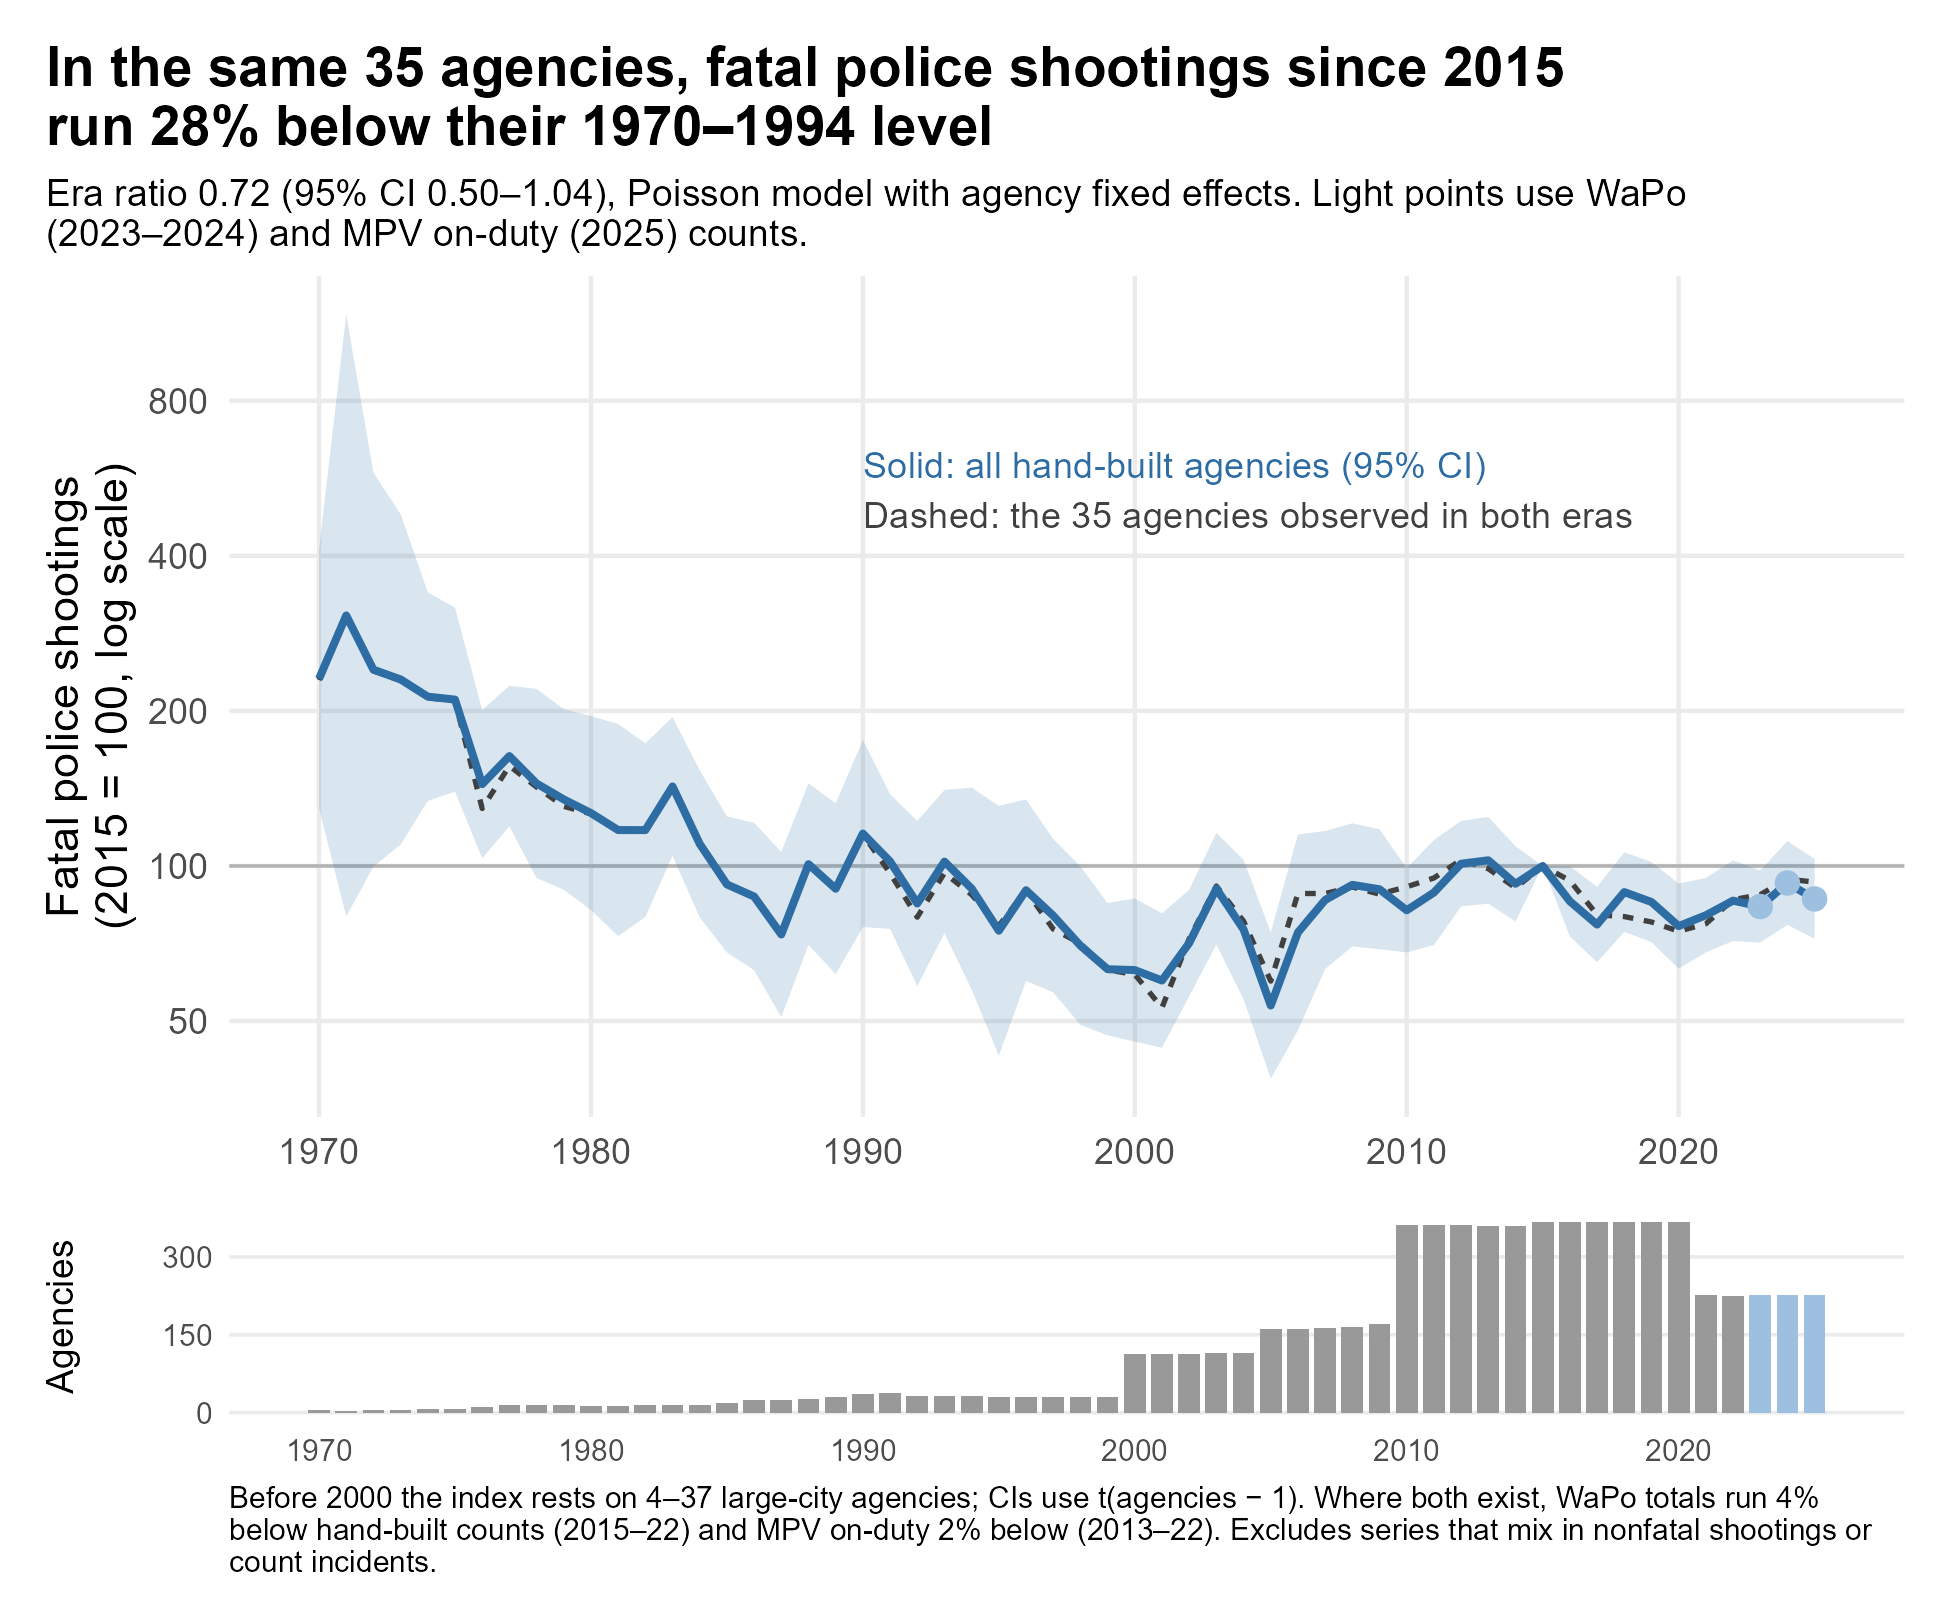
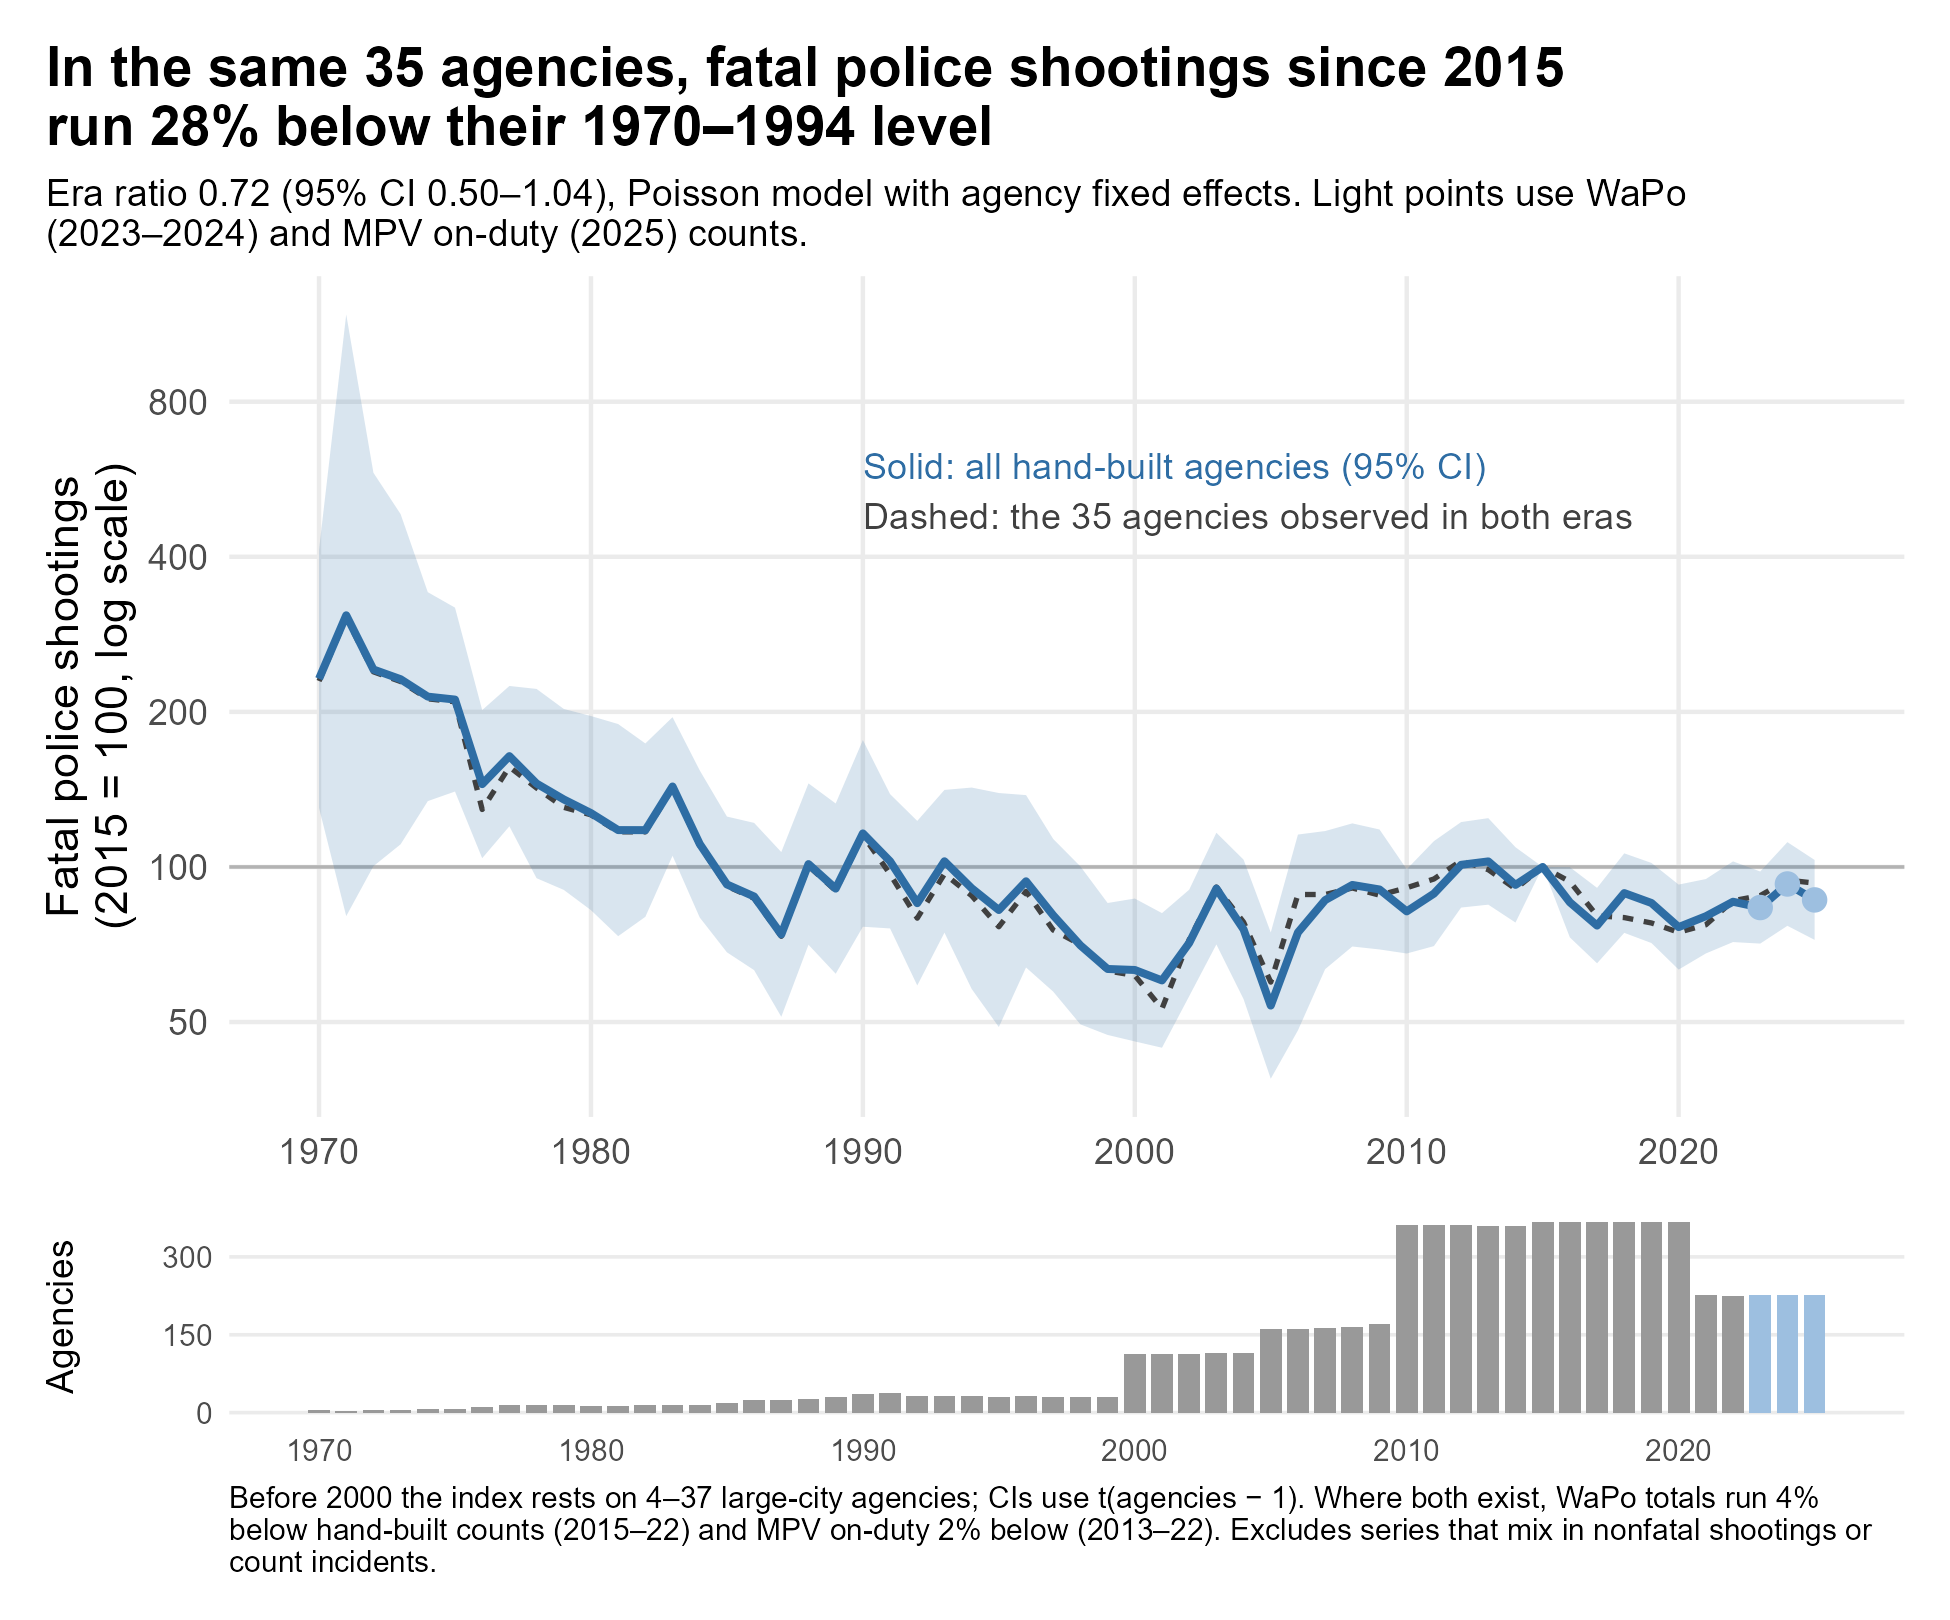
Add Baltimore PD 1995-96 to n_nix (Baltimore Sun annual counts) (#36)
1995 = 12 and 1996 = 9, both counts the Sun printed (SHR 13 and 8).
Case-by-case years are left out: the same search channels recovered
only about half of 1995's stated deaths, so 1990-94 floors would be
far too low. Baltimore stays out of the long panel; headline
unchanged (35 agencies, 0.72).

diff --git a/README.md b/README.md
@@ -132,7 +132,7 @@ I decided, for now at least, to focus on fatal shootings, since they're more rel
 | [Springfield (MO) PD](https://www.springfieldmo.gov/3755/Officer-Involved-Shootings) | 2008–2022 | Springfield (MO) PD |
 | [Austin open data portal](https://data.austintexas.gov/Public-Safety/Officer-Involved-Shooting-2000-2014/63p6-iegi) | 2008–2014 (2000–07 replaced by the Statesman reconstruction) | Austin PD |
 | [Dallas open data portal](https://www.dallasopendata.com/Public-Safety/Dallas-Police-Officer-Involved-Shootings/4gmt-jyx2) | 2003–2022 | Dallas PD |
-| Local newspapers via NewsBank: see [Newspaper reconstructions](#newspaper-reconstructions) below | 1981–2009 | Omaha, Lincoln, Oklahoma City, Columbus, Denver, Tulsa, San Antonio, Sacramento PD, Sacramento Co. SD, Portland (OR), Austin, Harris Co. SO, Charlotte, Fresno, San Jose, Dallas, San Diego, Kansas City (MO), Chicago, LAPD (1993–94), Milwaukee, San Francisco, Colorado Springs, Orlando, Anchorage |
+| Local newspapers via NewsBank: see [Newspaper reconstructions](#newspaper-reconstructions) below | 1981–2009 | Omaha, Lincoln, Oklahoma City, Columbus, Denver, Tulsa, San Antonio, Sacramento PD, Sacramento Co. SD, Portland (OR), Austin, Harris Co. SO, Charlotte, Fresno, San Jose, Dallas, San Diego, Kansas City (MO), Chicago, LAPD (1993–94), Milwaukee, San Francisco, Colorado Springs, Orlando, Anchorage, Baltimore (1995–96) |
 | Jacksonville Sheriff's Office, [*Police Involved Shootings*](https://web.archive.org/web/20150717050006/http://www.jaxsheriff.org/departments/sheriffs-office/docs/sheriff-john-rutherford/police-involved-shootings-final.aspx) (Jan. 2009; archived copy) | 2007–2008 | Jacksonville SO |
 | [Cincinnati open data portal](https://data.cincinnati-oh.gov/Safety/PDI-Police-Data-Initiative-Officer-Involved-Shooti/r6q4-muts) | 1996–2019 | Cincinnati PD |
 | [Vermont open data portal](https://data.vermont.gov/Public-Safety/Vermont-State-Police-Officer-Involved-Shootings-19/du86-kfnp) | 1977–2022 | Vermont State Police |
@@ -181,6 +181,7 @@ The method, a note on every agency, and the checks against each paper's own coun
 | Colorado Springs PD | *The Gazette* (Colorado Springs) | 1988–1999 | 4 | 2 |
 | Orlando PD | *Orlando Sentinel* | 1986–1999 | 6 | 1 |
 | Anchorage PD | *Anchorage Daily News* | 1986–1999 | 4 | 5 |
+| Baltimore PD | *The Sun* (Baltimore) | 1995–1996 | 21 | 21 |
 
 
 ## Caveats

diff --git a/data/historical/README.md b/data/historical/README.md
@@ -41,3 +41,4 @@ The SHR column is the FBI's count of people killed by the agency's officers with
 | Colorado Springs PD | *The Gazette* (Colorado Springs) | 1988–1999 | 4 | 2 | Built from three paper-stated anchors, then checked case by case: a July 1993 story says no one had died from a police shooting since October 1987; a May 1999 story counts four fatal shootings since 1988; a March 2001 sidebar lists every CSPD killing since 1993 (Joslin 1993, Abdul-Qadir 1995, Dearsmith and Lucero 1996). 1988 comes from the 1993 statement (the archive starts in January 1989). Matches SHR in 10 of 12 years; SHR misses 1995 and one 1996 death |
 | Orlando PD | *Orlando Sentinel* | 1986–1999 | 6 | 1 | Rebuilt case by case through five search channels (the archive starts in April 1985, so 1985 is not used). SHR filed only for 1986–87 and 1992–96, showing 1 death in those years against 3 here (it misses Rais in 1986 and Woolhouse in 1992). Leaves out a 1999 death by a DEA agent on a joint drug bust, a 1992 gunman the coroner found shot himself, and a 1996 restraint death. A floor: many zero years |
 | Anchorage PD | *Anchorage Daily News* | 1986–1999 | 4 | 5 | A small, selective archive (from October 1985, so 1985 is not used). A May 1998 story says the department had last used deadly force when it killed Terrance Cloyd in 1993, which covers 1994–97. Matches SHR in 13 of 14 years; SHR's 1997 death conflicts with that statement. 1986–92 rest on case searches alone |
+| Baltimore PD | *The Sun* (Baltimore) | 1995–1996 | 21 | 21 | Counts the paper printed (12 in 1995, 9 in 1996), not a case-by-case rebuild. A calibration run found the Sun's archive surfaces only about half of 1995's 12 deaths as individual stories, so case-built years (1990–94) would be far too low and are left out. Baltimore stays out of the long panel |
